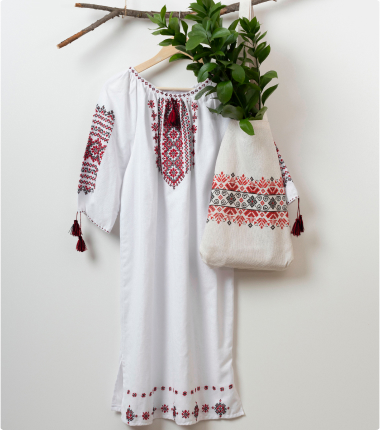
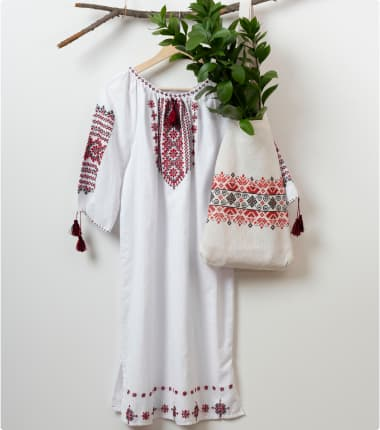
додав стиснені фото, збільшив кількість символів для інпуту у формі

diff --git a/src/partials/your-order.html b/src/partials/your-order.html
@@ -13,8 +13,8 @@
 
         <form class="order-form">
           <input class="order-input" type="text" name="user-name" placeholder="Enter your full name" required
-            pattern="[a-zA-Zа-яА-ЯіІїЇєЄґҐ']">
-          <input class="order-input" type="email" name="user-email" placeholder="Enter your email" required>
+            pattern="[a-zA-Zа-яА-ЯіІїЇєЄґҐ']" maxlength="16">
+          <input class="order-input" type="email" name="user-email" placeholder="Enter your email" required maxlength="50">
           <textarea class="order-comment" name="user-comment" placeholder="Comments"></textarea>
           <button class="order-send-btn" type="submit">
             Send
